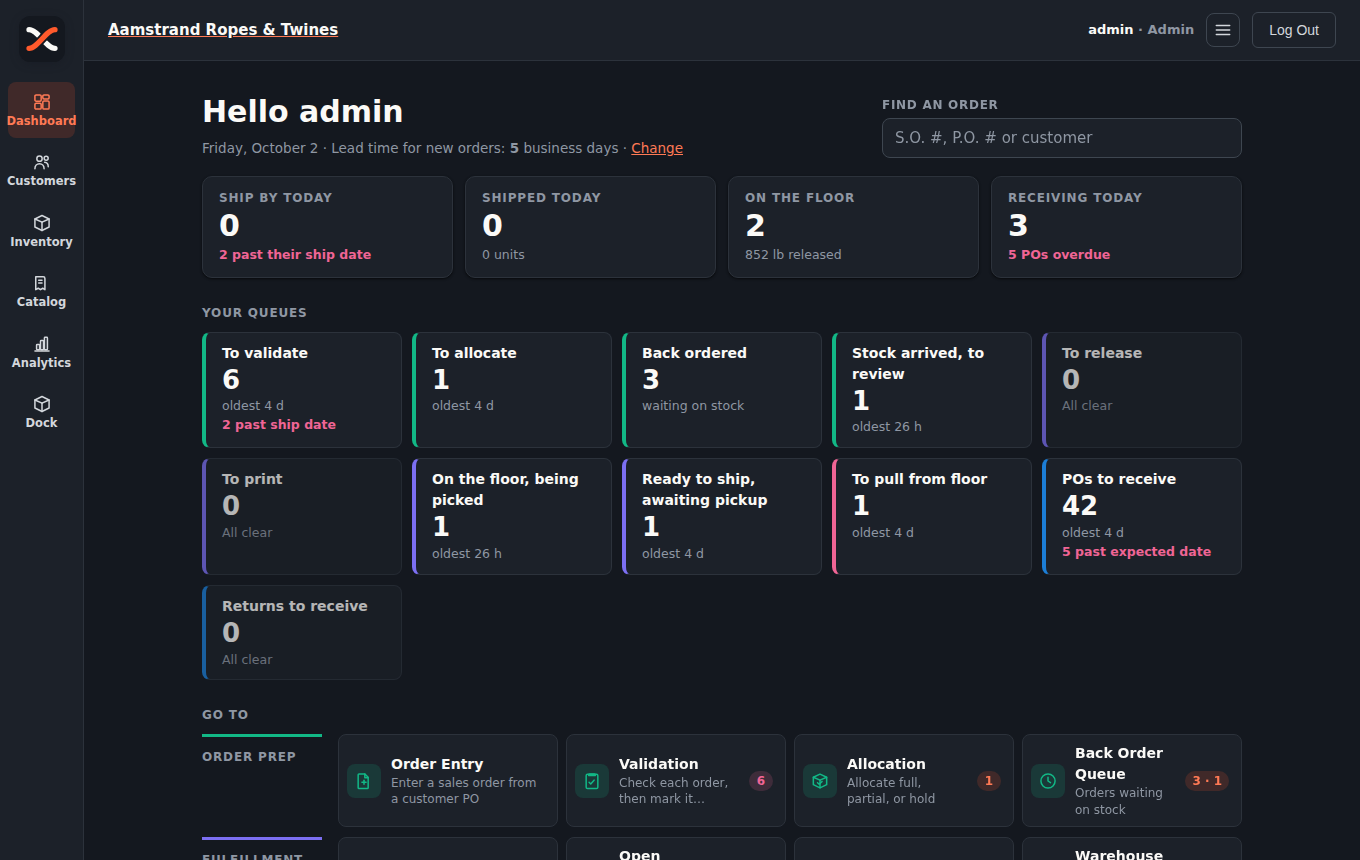
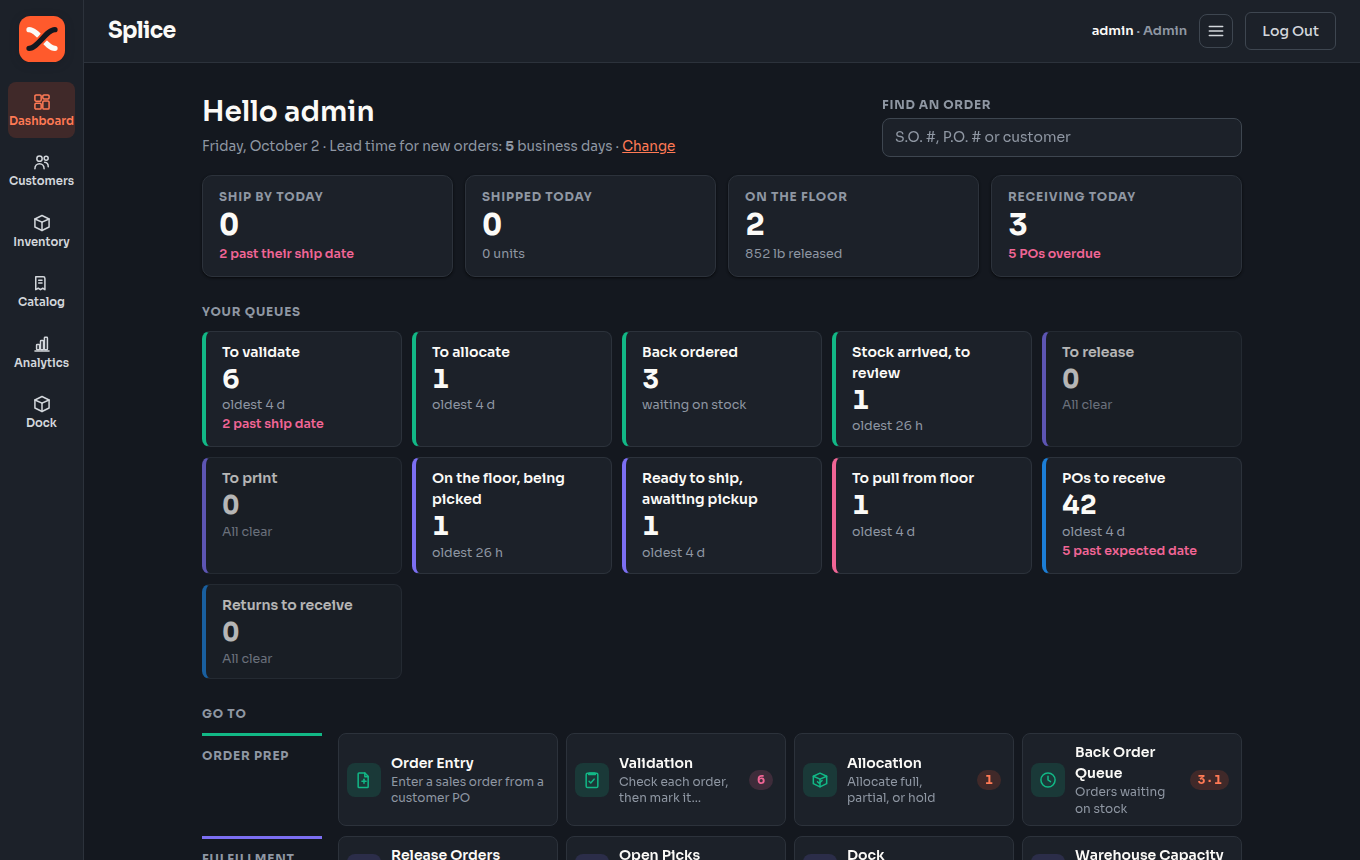
Sora across the app, Splice wordmark in the header
Sora is self-hosted (public/fonts, the variable file) and is now the
app's typeface everywhere, form controls and buttons included, with the
base size a point smaller and tabular numbers to suit its width. The
header link shows the Splice wordmark in place of the company name; the
company still appears on printed documents.

Claude-Session: https://claude.ai/code/session_01MpMPnmBp2Re34mF3bGfbNG

diff --git a/src/index.css b/src/index.css
@@ -1,3 +1,22 @@
+/* Sora, the brand's typeface, self-hosted (public/fonts) so it needs no
+   outside connection; the variable file covers regular to extra bold. */
+@font-face {
+  font-family: "Sora";
+  font-style: normal;
+  font-weight: 400 800;
+  font-display: swap;
+  src: url("/fonts/sora-latin.woff2") format("woff2");
+  unicode-range: U+0000-00FF, U+0131, U+0152-0153, U+02BB-02BC, U+02C6, U+02DA, U+02DC, U+0304, U+0308, U+0329, U+2000-206F, U+20AC, U+2122, U+2191, U+2193, U+2212, U+2215, U+FEFF, U+FFFD;
+}
+@font-face {
+  font-family: "Sora";
+  font-style: normal;
+  font-weight: 400 800;
+  font-display: swap;
+  src: url("/fonts/sora-latin-ext.woff2") format("woff2");
+  unicode-range: U+0100-02BA, U+02BD-02C5, U+02C7-02CC, U+02CE-02D7, U+02DD-02FF, U+0304, U+0308, U+0329, U+1D00-1DBF, U+1E00-1E9F, U+1EF2-1EFF, U+2020, U+20A0-20AB, U+20AD-20C0, U+2113, U+2C60-2C7F, U+A720-A7FF;
+}
+
 /* Splice brand: Ink #14181F, Signal #FF5A2C, Paper #FBFAF7. Panels are
    Paper on a warm grey; Signal is the accent for links, active states and
    selections (darkened a step where it carries body-size text); primary
@@ -31,11 +50,14 @@
   --chart-cat-6: #008300;
   --chart-seq-1: #2a78d6;
 
-  --sans: system-ui, "Segoe UI", Roboto, sans-serif;
+  /* Sora across the whole app, as on the brand sheet; it runs a little
+     wide, so the base size drops a point and numbers are set tabular. */
+  --sans: "Sora", system-ui, "Segoe UI", Roboto, sans-serif;
   --brand: "Sora", system-ui, "Segoe UI", Roboto, sans-serif;
   --mono: ui-monospace, Consolas, monospace;
 
-  font: 15px/1.5 var(--sans);
+  font: 14px/1.5 var(--sans);
+  font-variant-numeric: tabular-nums;
   color-scheme: light dark;
   color: var(--text);
   background: var(--bg);
@@ -123,6 +145,15 @@ h3 {
   font-weight: 600;
   color: var(--text-h);
   margin: 0;
+}
+
+/* Form controls and buttons take the page font (Sora) rather than the
+   browser's default. */
+button,
+input,
+select,
+textarea {
+  font-family: inherit;
 }
 
 a {
@@ -236,7 +267,12 @@ a {
   gap: 10px;
 }
 
-a.brand:hover .brand-name {
+a.brand {
+  text-decoration: none;
+}
+
+a.brand:hover .brand-name,
+a.brand:hover .wordmark {
   color: var(--accent);
 }
 

diff --git a/src/components/Layout.tsx b/src/components/Layout.tsx
@@ -1,12 +1,11 @@
 import { useEffect } from "react";
 import { Link, NavLink, Navigate, Outlet, useLocation, useNavigate } from "react-router-dom";
-import BrandMark from "./BrandMark";
+import BrandMark, { Wordmark } from "./BrandMark";
 import ErrorBoundary from "./ErrorBoundary";
 import ToastHost from "./Toast";
 import MoreMenu from "./MoreMenu";
 import { AnalyticsIcon, CatalogIcon, CustomersIcon, DashboardIcon, InventoryIcon } from "./SidebarIcons";
 import { useAuth } from "../lib/authContext";
-import { getCompanyInfo } from "../lib/companyStore";
 import { getPageAccent } from "../lib/pageAccent";
 import { getAccessLevel } from "../lib/permissions";
 
@@ -94,8 +93,8 @@ export default function Layout() {
       </nav>
       <div className="app-main">
         <header className="topbar">
-          <Link to="/" className="brand">
-            <span className="brand-name">{getCompanyInfo().name}</span>
+          <Link to="/" className="brand" aria-label="Splice home">
+            <Wordmark />
           </Link>
           <div className="topbar-user">
             <span className="topbar-username">

diff --git a/index.html b/index.html
@@ -5,9 +5,7 @@
     <link rel="icon" type="image/svg+xml" href="/favicon.svg" />
     <meta name="viewport" content="width=device-width, initial-scale=1.0" />
     <meta name="theme-color" content="#14181F" />
-    <link rel="preconnect" href="https://fonts.googleapis.com" />
-    <link rel="preconnect" href="https://fonts.gstatic.com" crossorigin />
-    <link rel="stylesheet" href="https://fonts.googleapis.com/css2?family=Sora:wght@700&display=swap" />
+    <link rel="preload" href="/fonts/sora-latin.woff2" as="font" type="font/woff2" crossorigin />
     <title>Splice</title>
   </head>
   <body>
